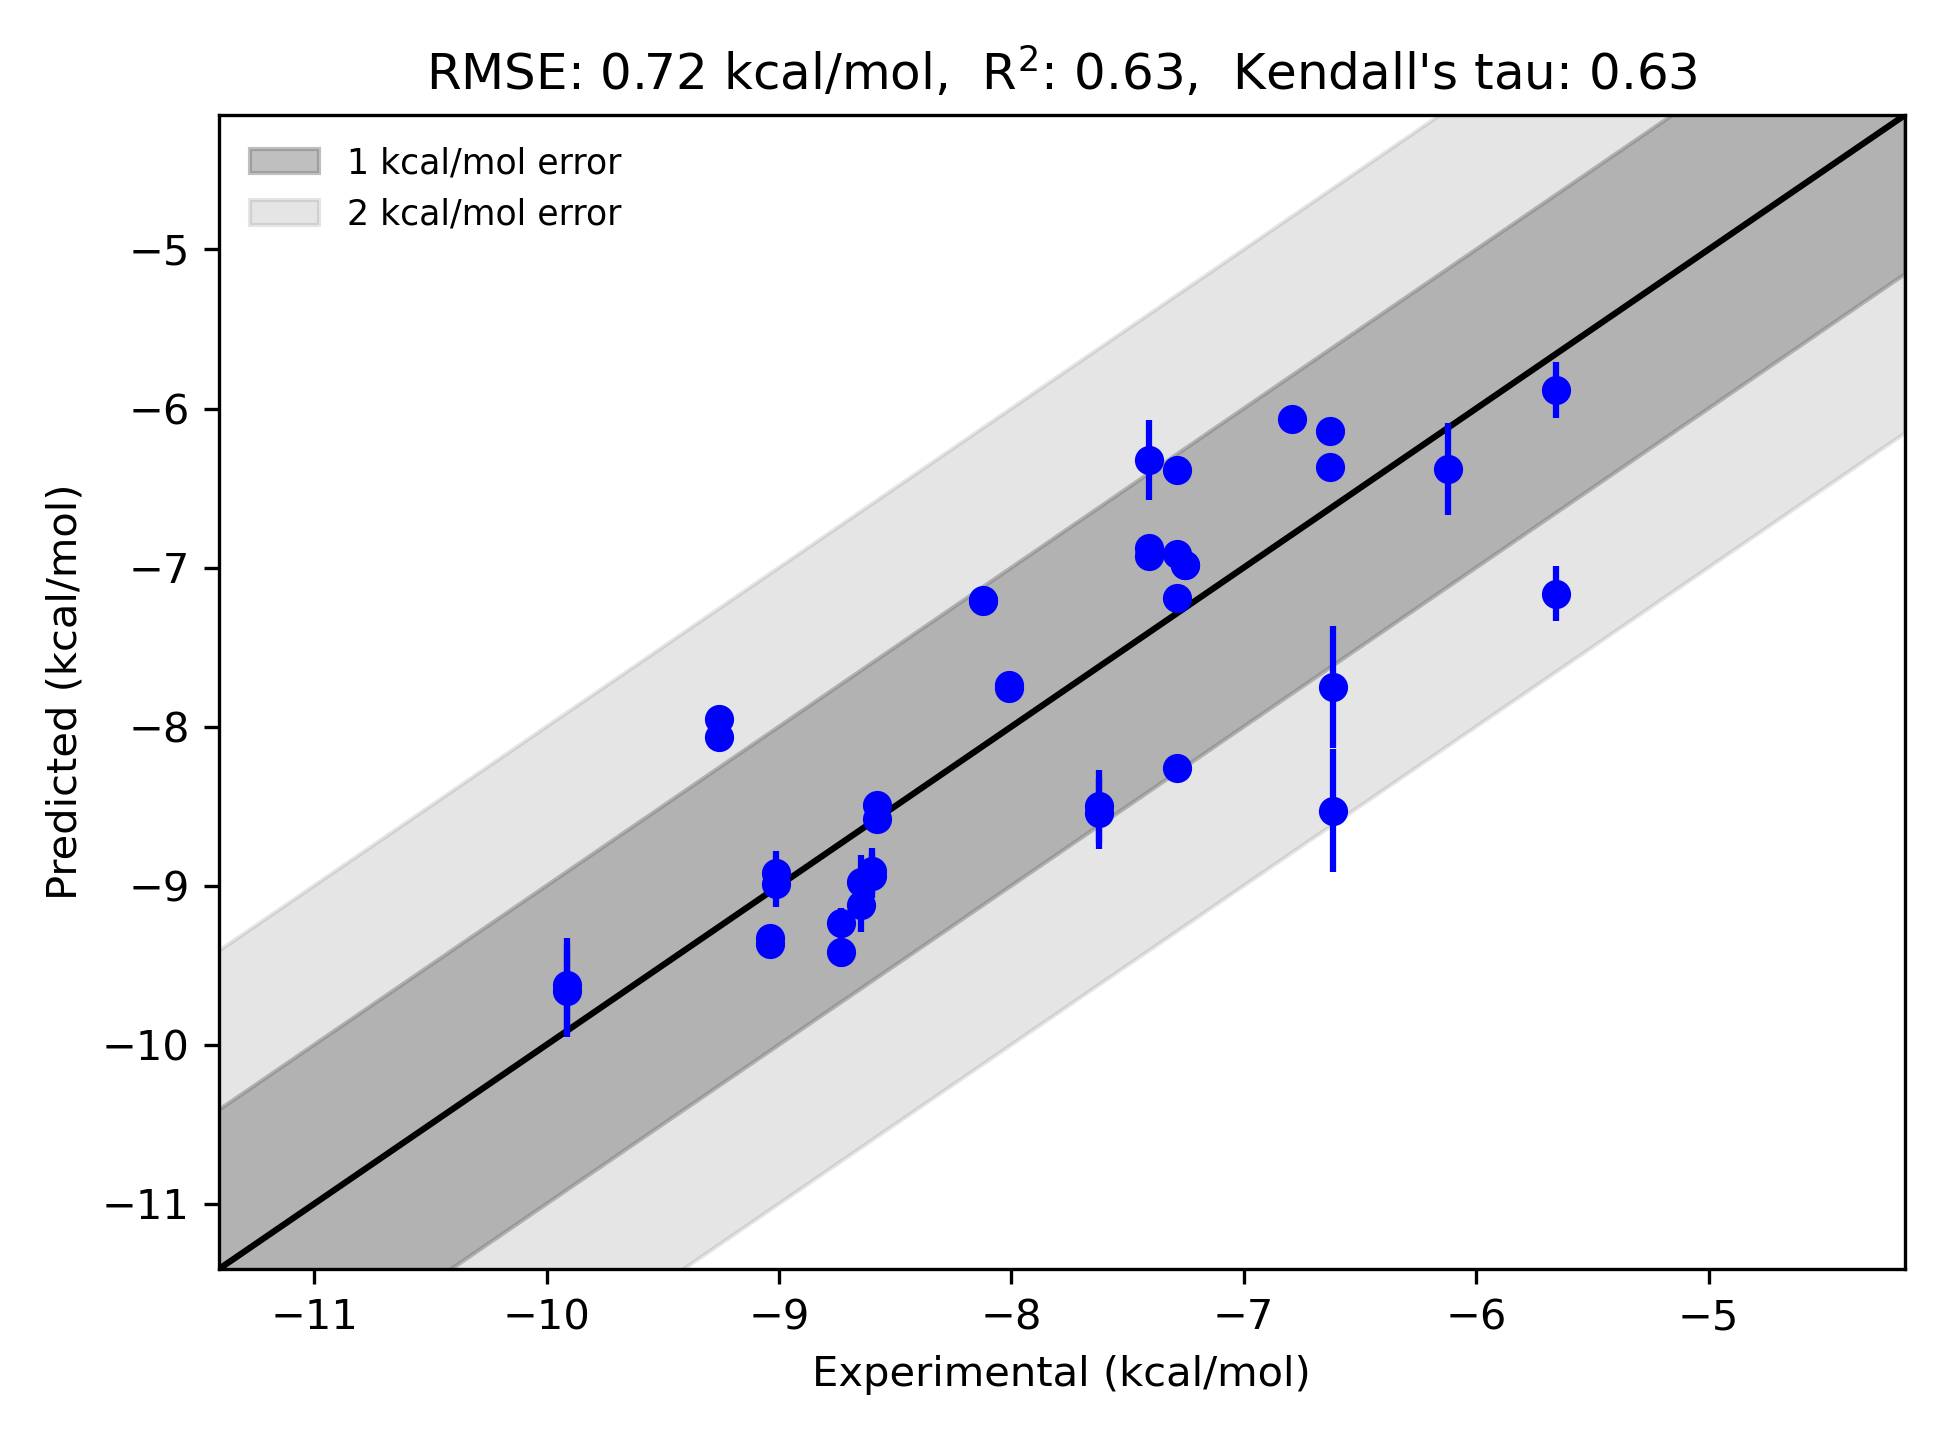
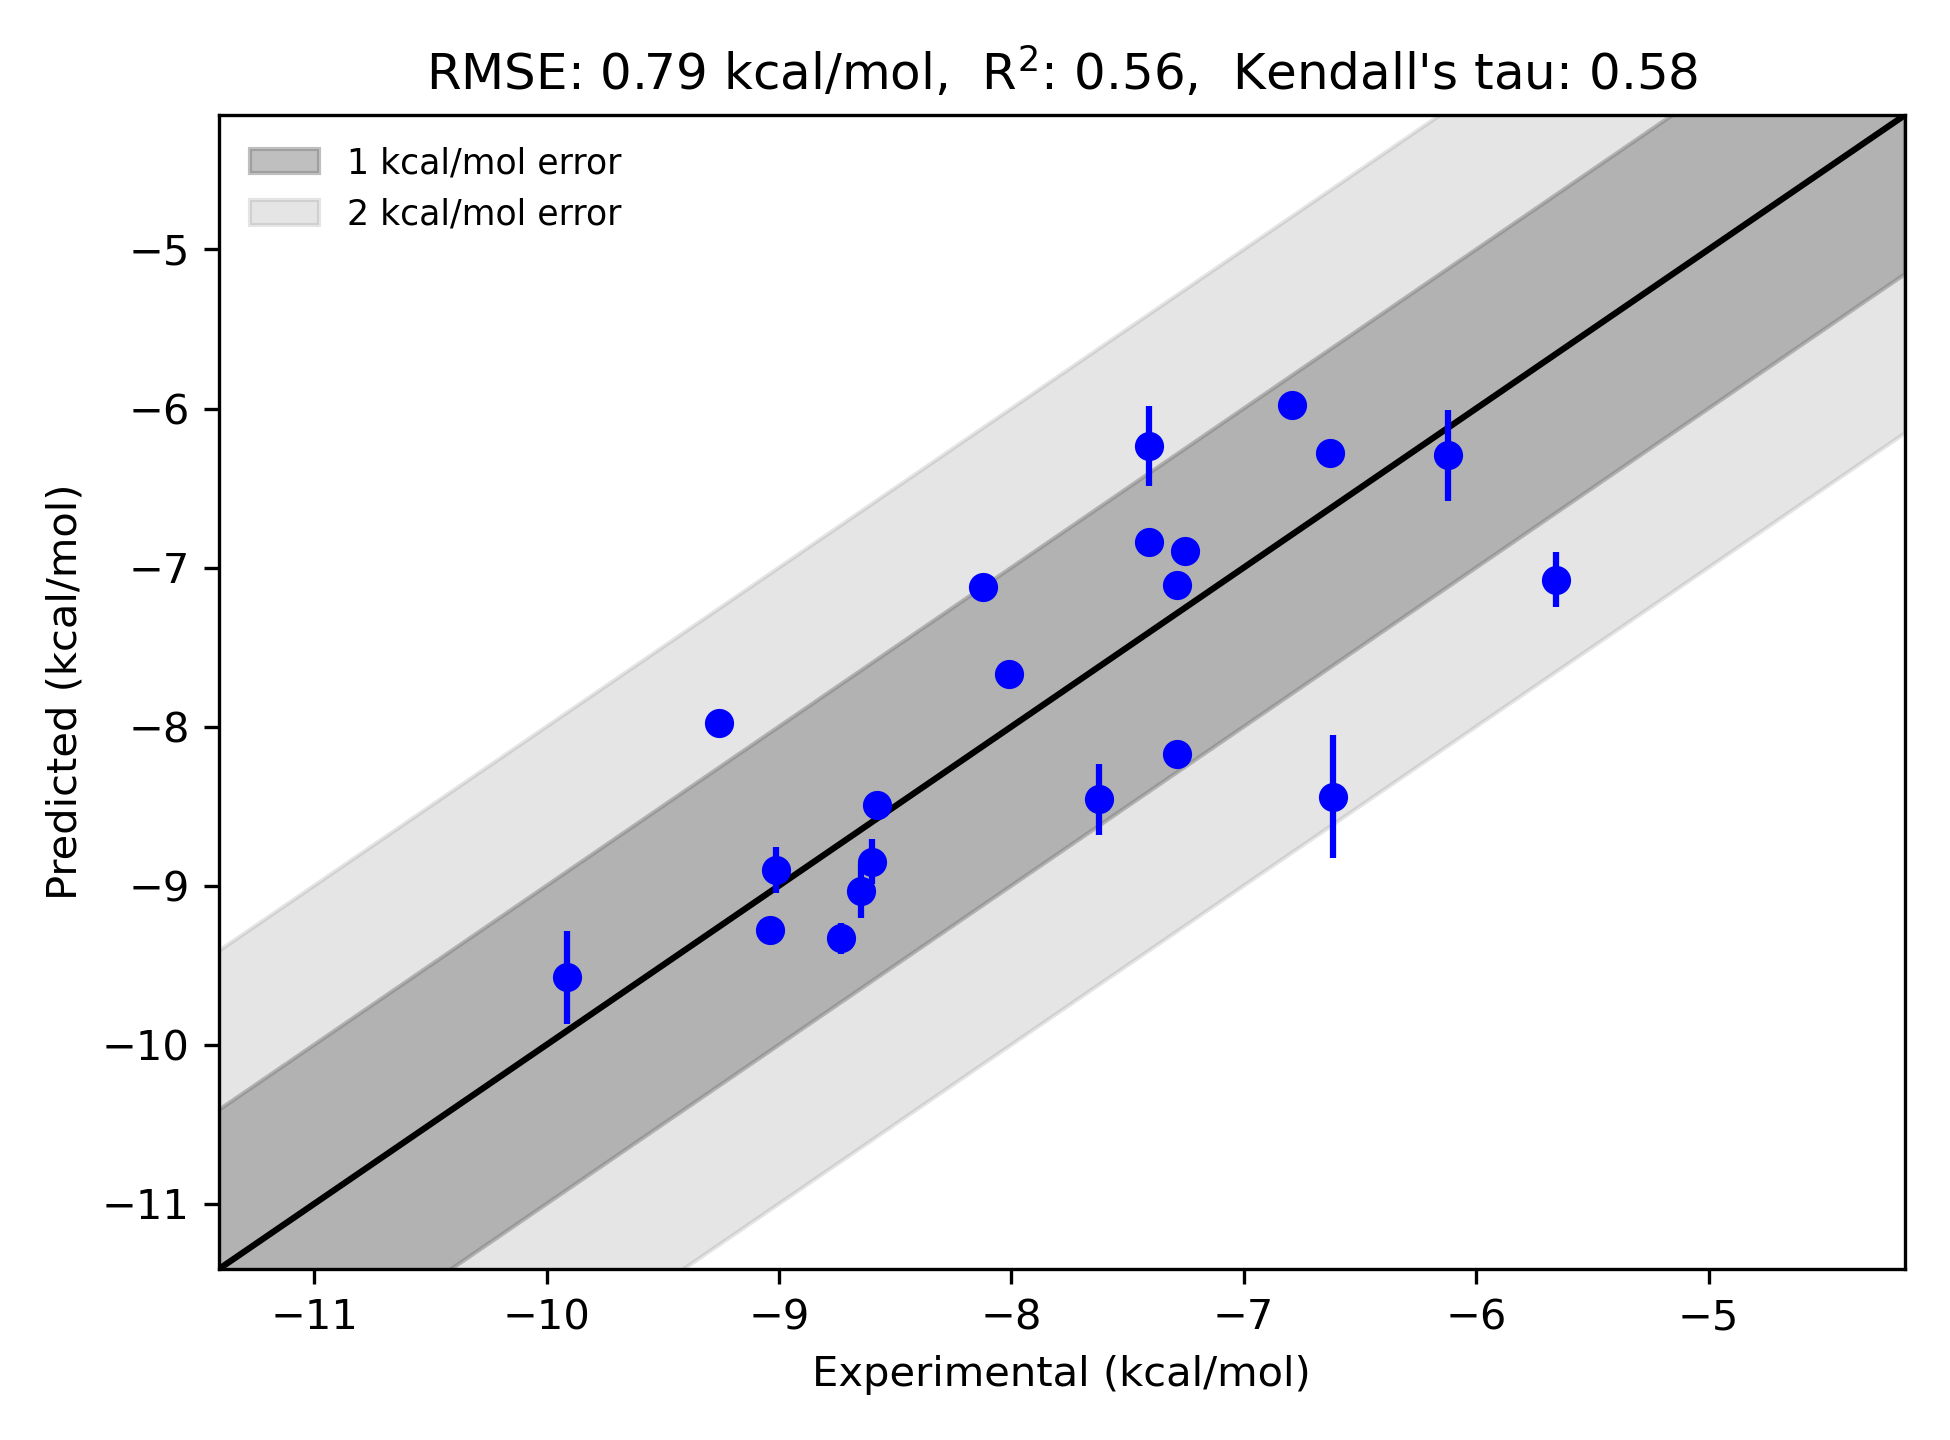
Update throm result

diff --git a/README.md b/README.md
@@ -128,7 +128,7 @@ By compiling well-structured benchmark cases, this repository aims to:
 | shp2_merck | 26 | 1.79 | 0.04 | 0.12 |
 | syk_merck | 48 | 1.56 | 0.26 | 0.42 |
 | taf12-waterset | 8 | 0.46 | 0.67 | 0.36 |
-| throm-waterset | 39 | 0.72 | 0.63 | 0.63 |
+| throm-waterset | 21 | 0.79 | 0.56 | 0.58 |
 | thrombin_jacs_set | 11 | 0.78 | 0.66 | 0.64 |
 | tnks2_merck | 33 | 1.03 | 0.24 | 0.28 |
 | tyk2_jacs_set | 16 | 0.81 | 0.63 | 0.55 |
